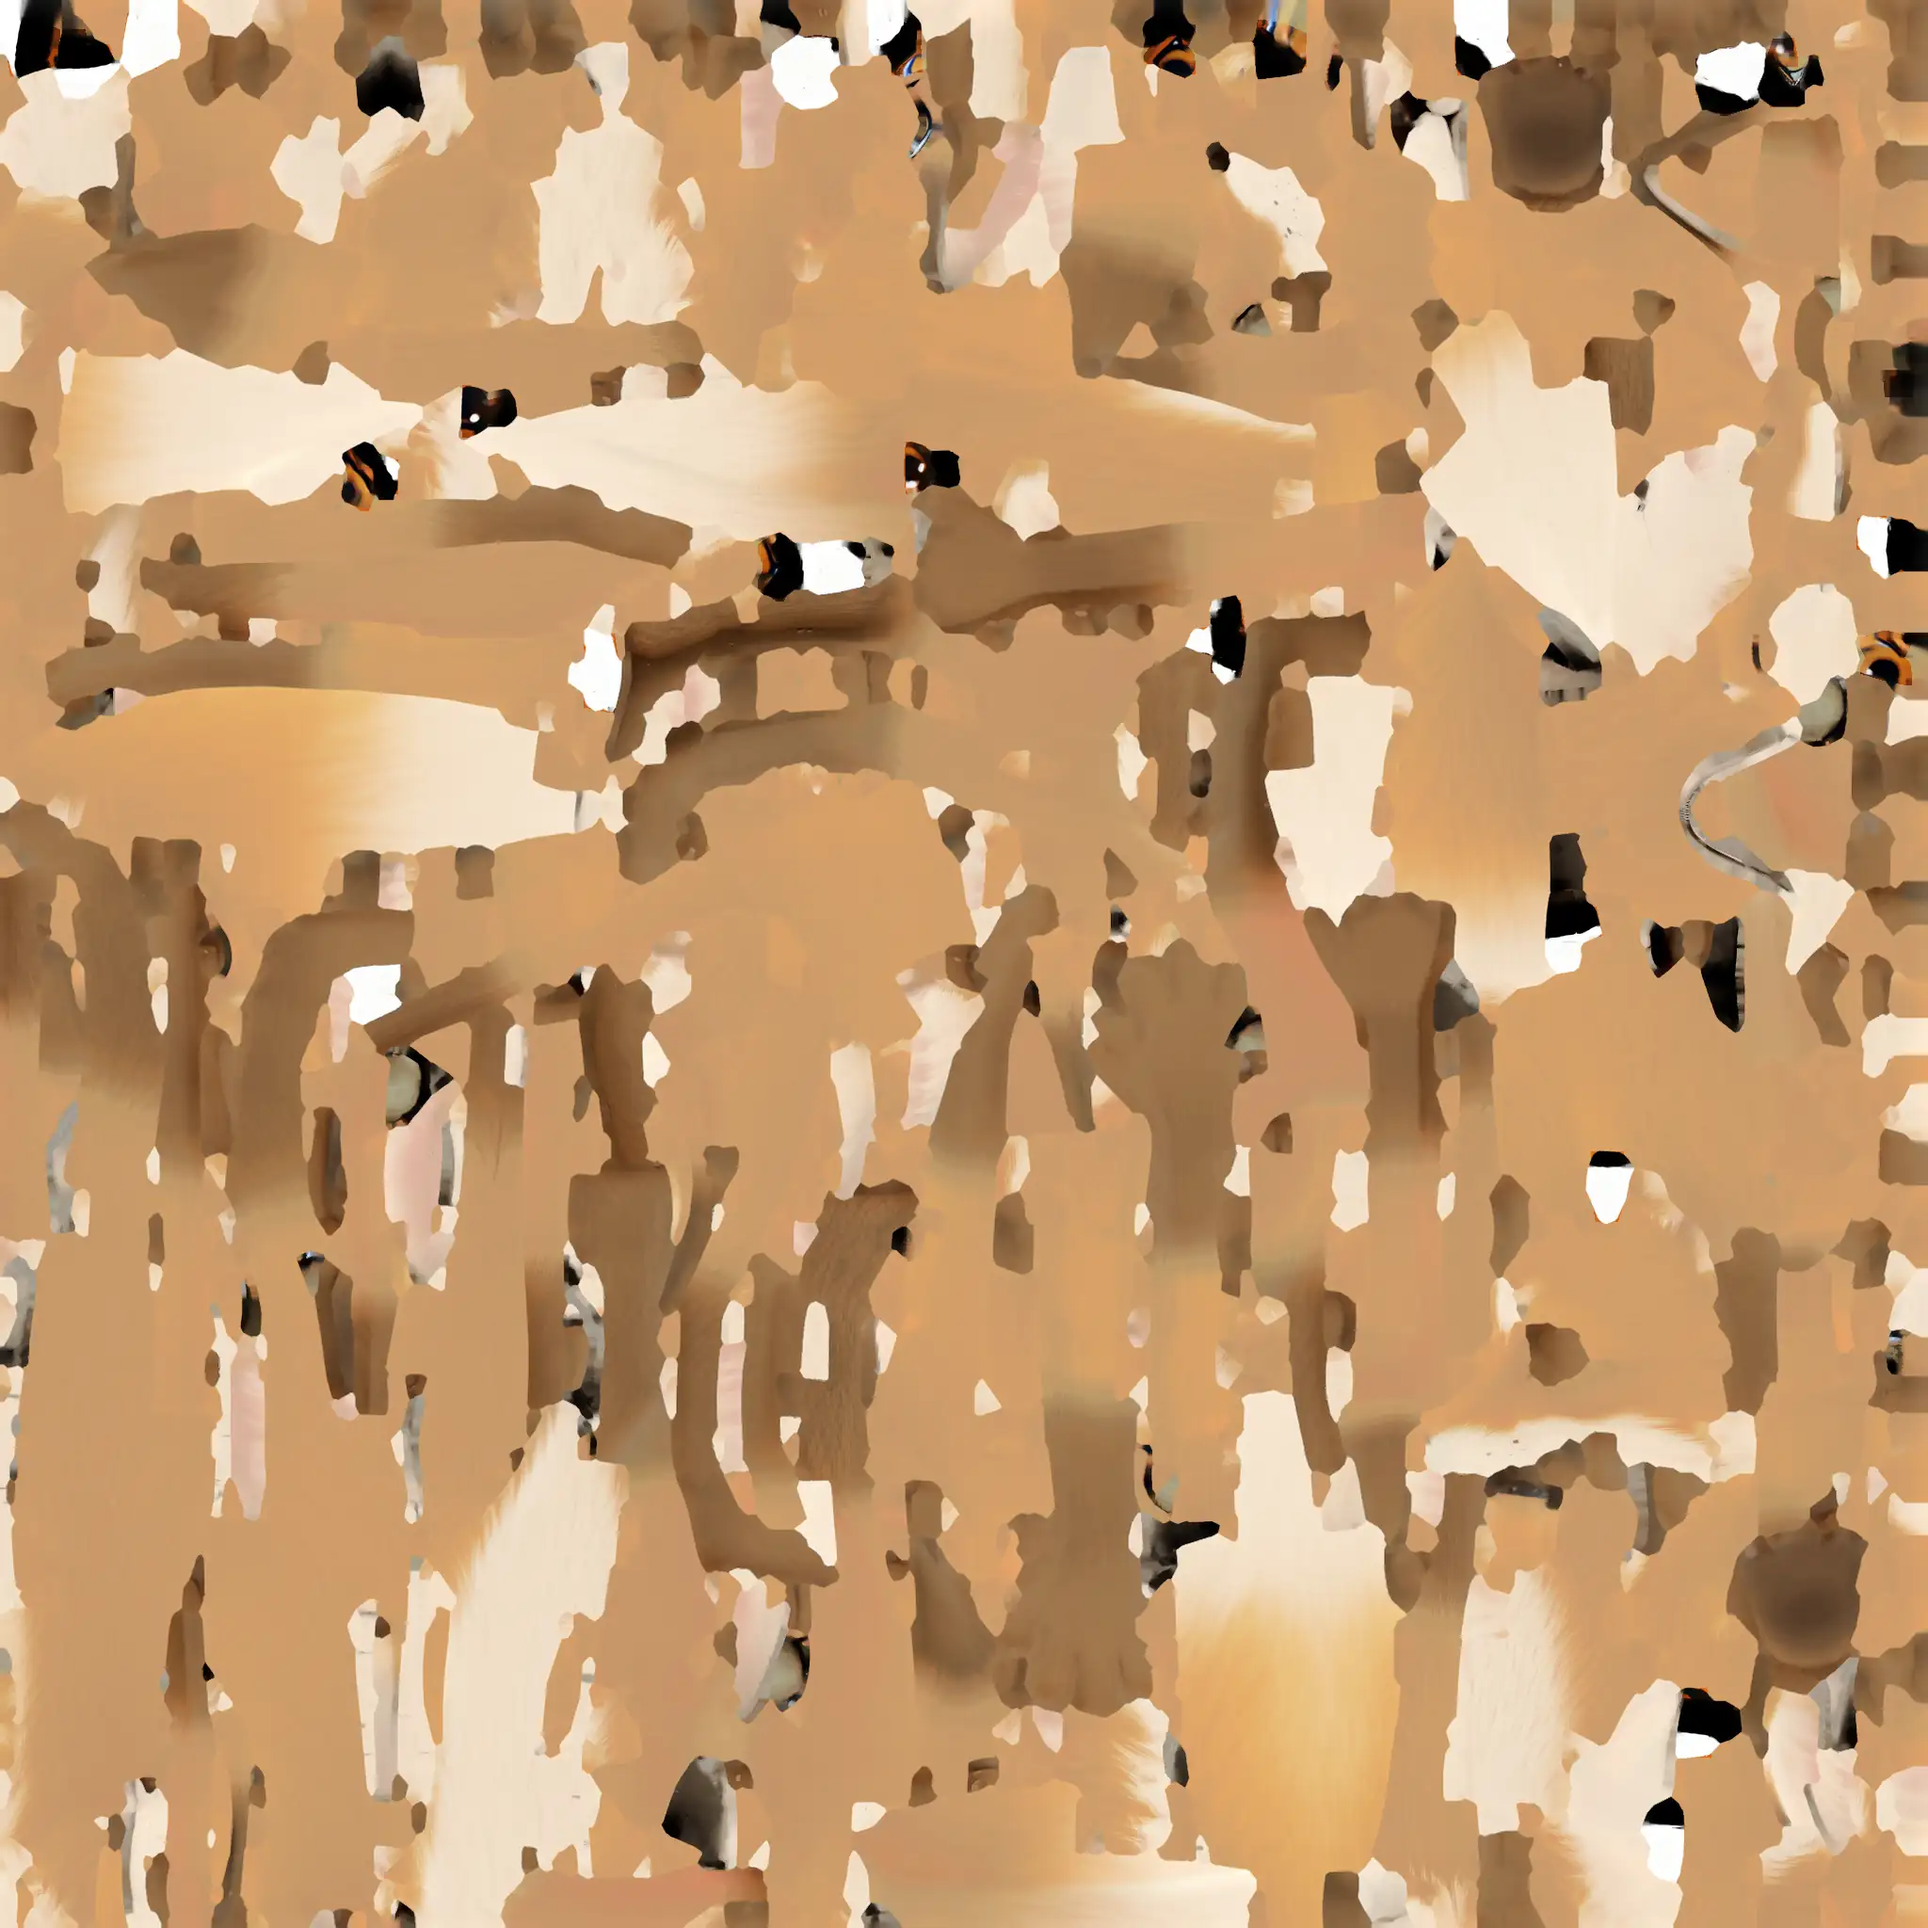
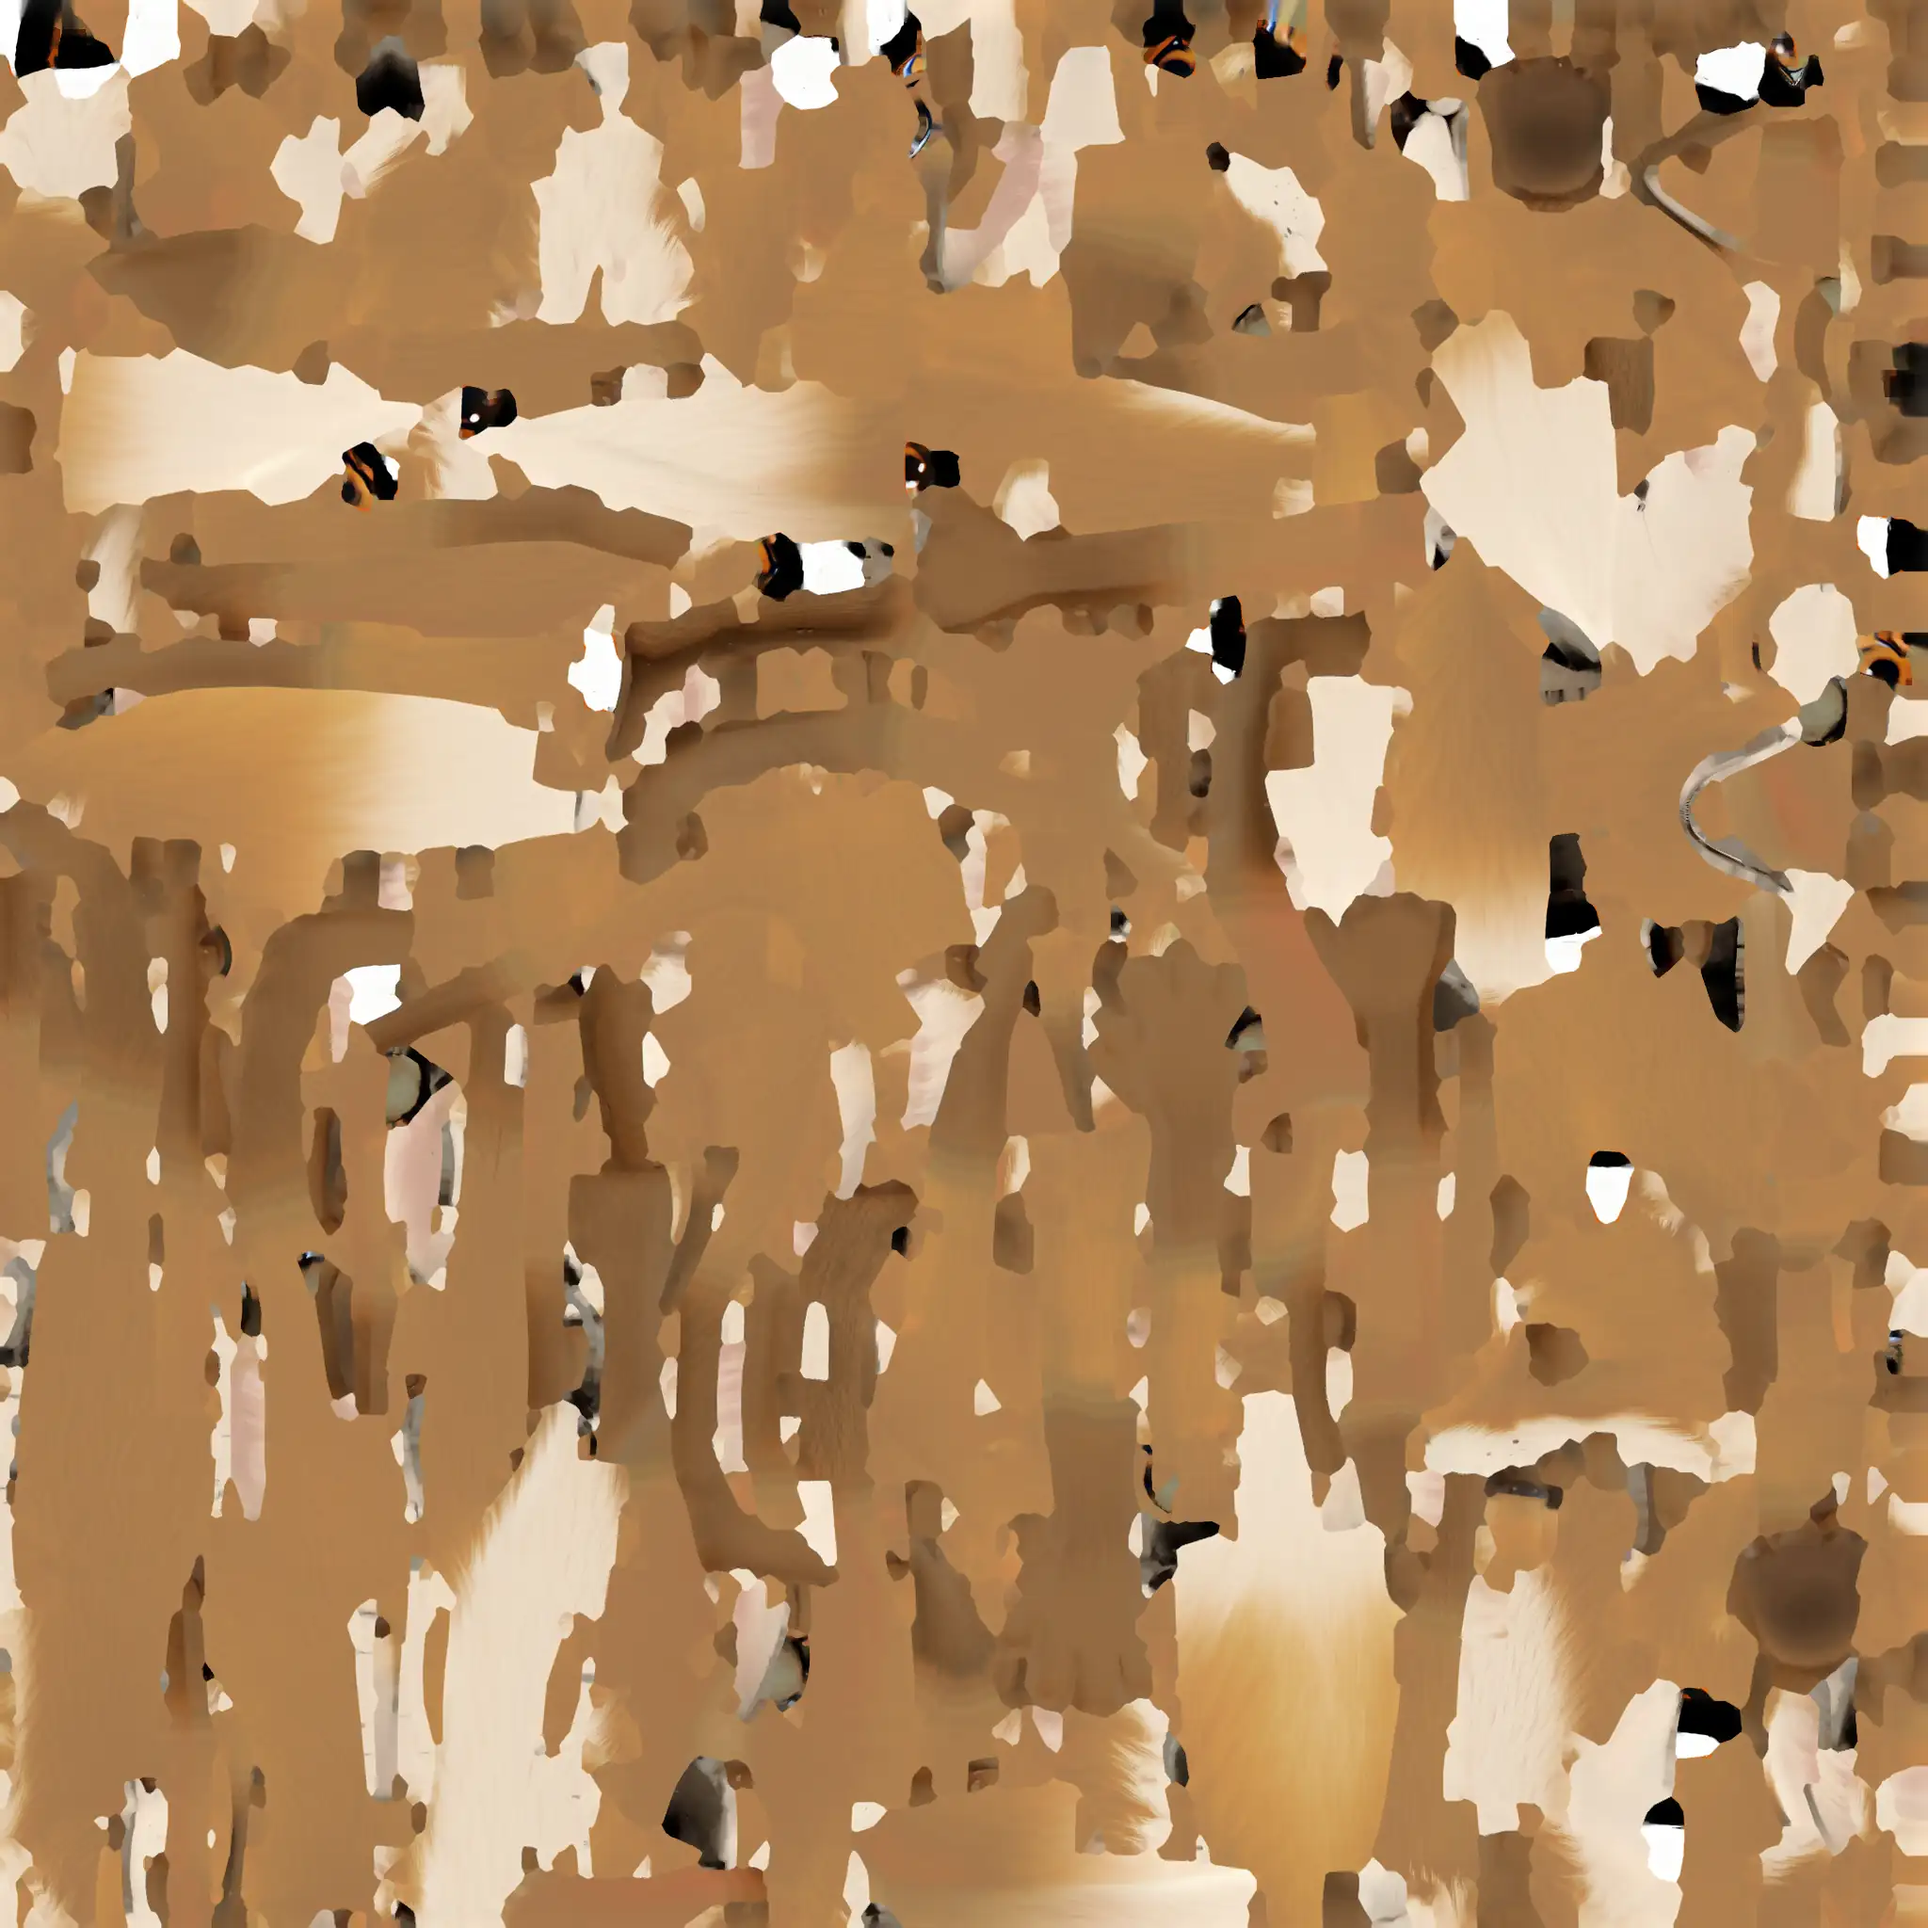
fix(tools): give the tan fox map the lightness of the tan palette
The tan map moved the orange fur to the tan of SPECIES_COLORS, which is
lighter than the tan palette of the faces. In the light of the app the
tan fur then reached the shoulder of the tone curve and read cream: the
median fur of the 3/4 view was sRGB (238, 199, 146). The fur and the
socks now take the hue and the chroma of SPECIES_COLORS at the Oklab
lightness of the tan palette, (166, 129, 83) and (143, 102, 62). The
same view now gives (228, 175, 111).

diff --git a/tools/fox-tan-map.py b/tools/fox-tan-map.py
@@ -1,9 +1,9 @@
 # Writes the color map of the tan fox, `assets/models/fox/tripo-hand/fox-tan-color.webp`, from the
 # color map of the Tripo fox (design 4.5, assets/models/fox/README.md, "Tan color map"). It scales
 # the source image to 2048 pixels as the red copy `fox-color.webp`, and moves each texel in Oklab
-# by a step: the orange fur goes to the tan fur and the dark socks to the tan accent of
-# SPECIES_COLORS of src/models/colors.ts, and the cream belly, the white, and the black keep their
-# colors. Each texel takes a mix of the steps of the colors, by its nearness to each color, so the
+# by a step: the orange fur and the dark socks go to the tan fur and the tan accent of
+# SPECIES_COLORS of src/models/colors.ts at the lightness of the tan palette of the faces, and the
+# cream belly, the white, and the black keep their colors. Each texel takes a mix of the steps of the colors, by its nearness to each color, so the
 # blend between two colors of the fur stays smooth. The texels of the eyeballs keep their colors:
 # the script reads their triangles and texture points from the rig file (`ownEyes` of the
 # export). The output depends only on the input files.
@@ -24,10 +24,14 @@ QUALITY = 60
 
 #: The colors of the red fox in the map (sRGB) and the colors that take their place: the region
 #: colors of the face colors of the hand rig (assets/models/fox/README.md, "Smooth surface"), and
-#: the white, the black, and the cream of the map, which keep their colors.
+#: the white, the black, and the cream of the map, which keep their colors. The fur and the socks
+#: take the Oklab hue and chroma of the fur and the accent of SPECIES_COLORS['fox-tan'] and the
+#: Oklab lightness that the tan palette of the faces gives them (paletteMap() of
+#: tools/studio-palette.ts): sRGB (186, 118, 73) and (153, 97, 49). The colors of SPECIES_COLORS
+#: themselves are lighter, and the tan fur then read cream in the light of the app.
 ANCHORS = (
-    ((220, 98, 12), (0xC9, 0xA2, 0x73)),  # the orange fur to the tan fur
-    ((73, 37, 17), (0x9A, 0x71, 0x48)),  # the dark socks to the tan accent
+    ((220, 98, 12), (166, 129, 83)),  # the orange fur to the tan fur
+    ((73, 37, 17), (143, 102, 62)),  # the dark socks to the tan accent
     ((244, 215, 191), (244, 215, 191)),  # the cream belly and cheeks
     ((206, 168, 143), (206, 168, 143)),  # the muzzle and the inner ears
     ((255, 255, 255), (255, 255, 255)),  # the white lights and the tail tip
